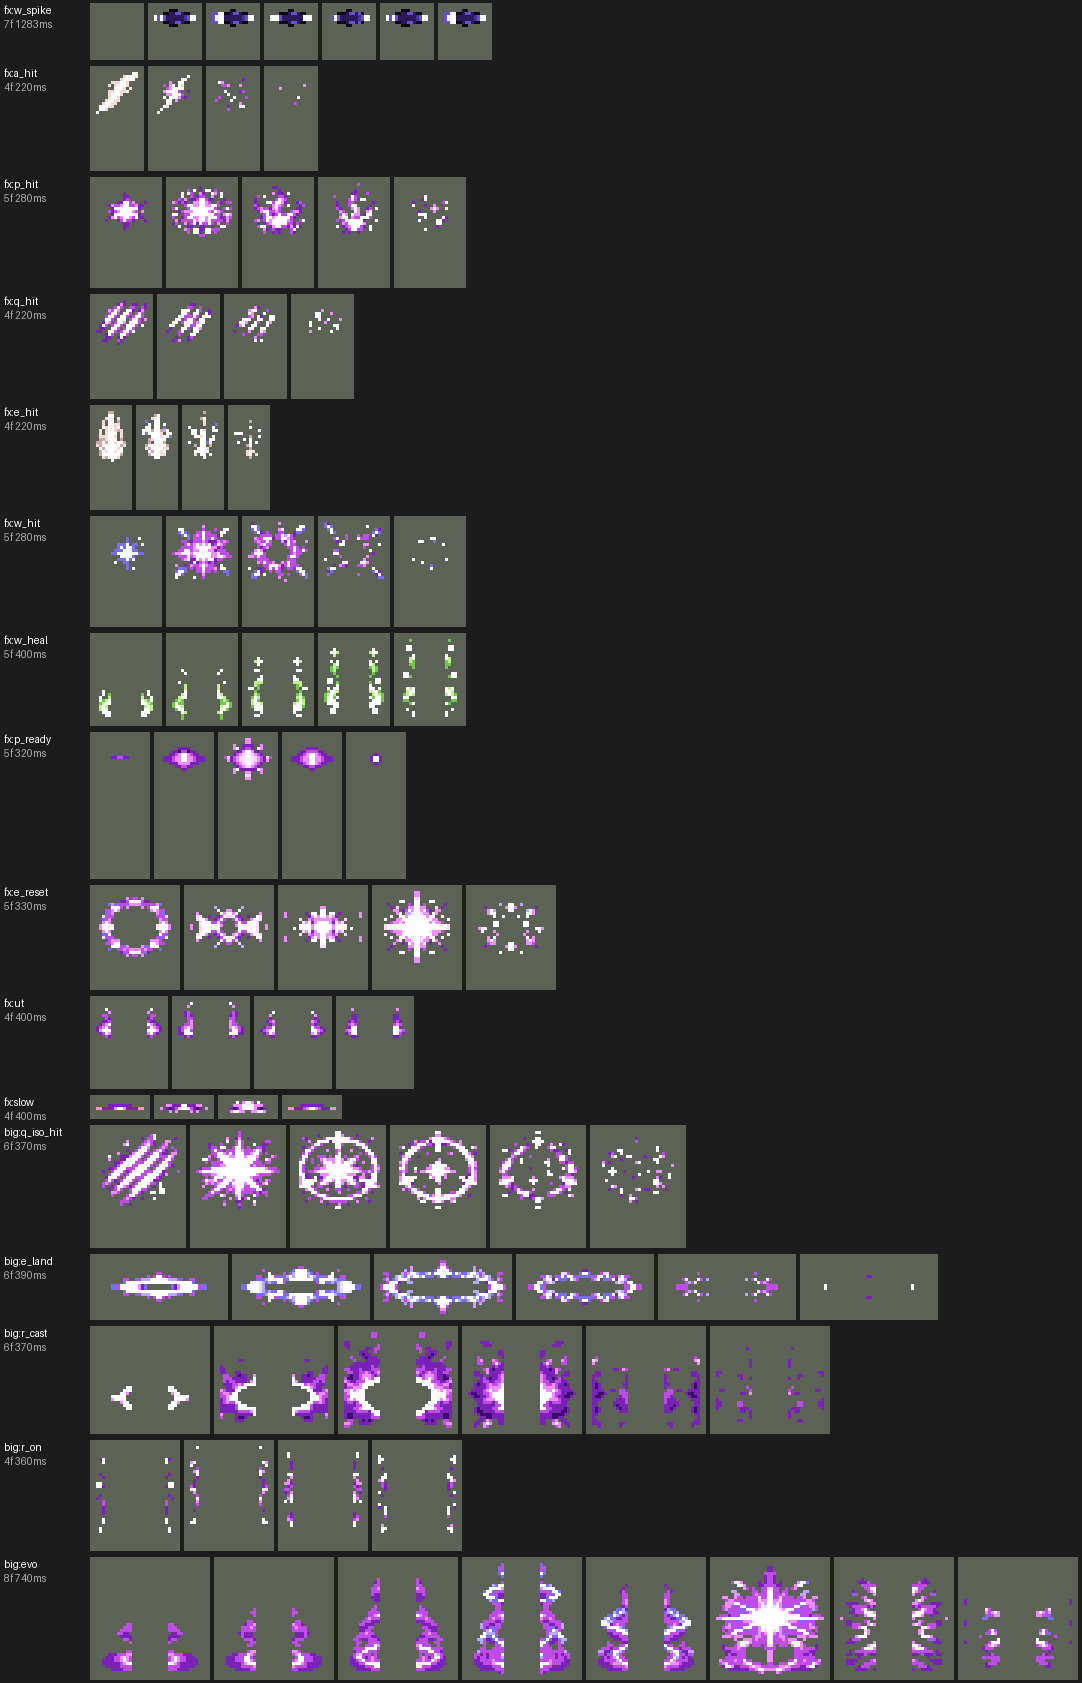
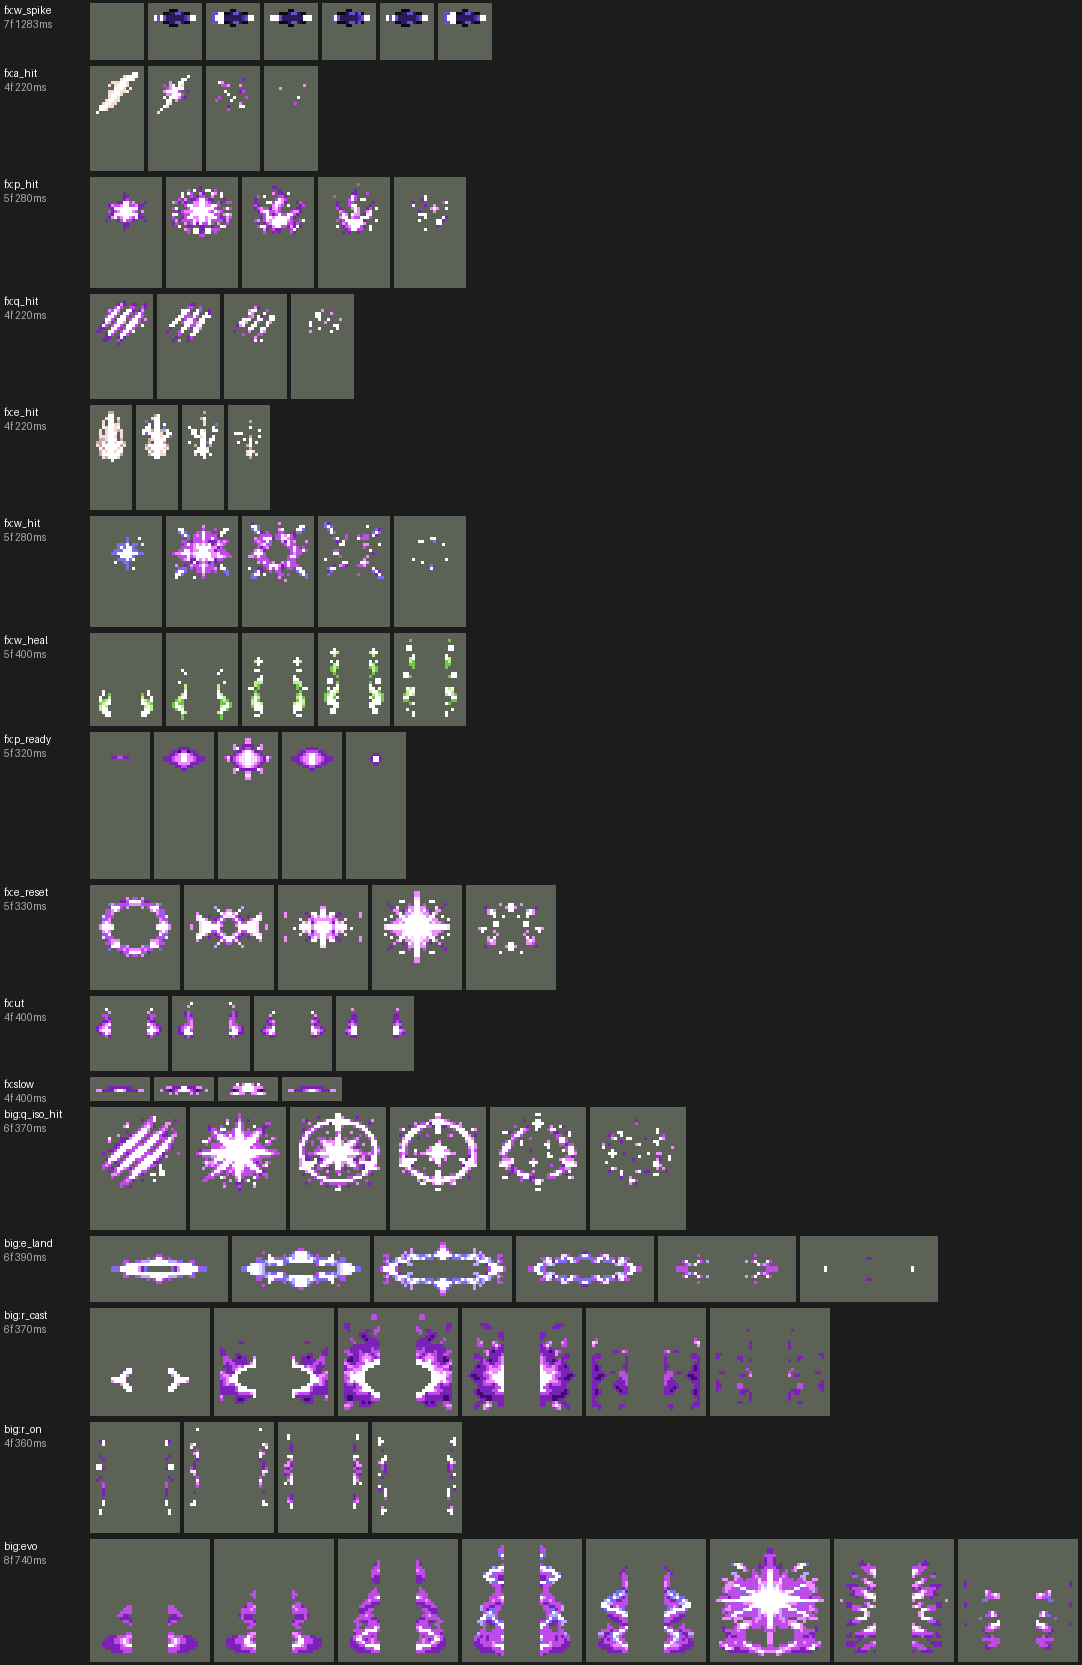
Kha'Zix: the Unseen Threat flames at his waist (-4), not on his chest (-10) where they covered the face plate in the game (「螳螂这个特效挡住脸部了」)

diff --git a/tools/art/import_khazix.py b/tools/art/import_khazix.py
@@ -48,7 +48,9 @@ SHEETS = {
 # side) - the user: 「查一下红色蓝色方技能有没有歪的问题」.
 # His own spots moved with the shrink (fix_khazix_strips.SHRINK: 45 rows -> 37; before CHEST -14, OVER -34, BODY -11).
 HIT = (0, -12)                  # a hit on the upper body of a 36-44 px unit
-CHEST = (0, -10)                # his chest (the pack's ut: two flames either side of it)
+# the pack's ut, two flames either side of him, at his waist: on the chest (-10) they covered the face plate in the
+# game (the user: 「螳螂这个特效挡住脸部了」)
+CHEST = (0, -4)
 OVER = (0, -27)                 # over his head (the face plate's top is 17 over the pivot, the antenna tips 26)
 BODY = (0, -7)                  # the middle of his body
 SOLES = (0, 11)                 # on the ground under a unit (his feet, or a point's)

diff --git a/README.md b/README.md
@@ -123,7 +123,7 @@
 ![派克演示：他跑进场，鱼叉砍德莱厄斯；Q 透骨尖钉蓄力：举起的叉刃上聚起幽绿的光，鱼叉扔向身后的盖伦，钩中后把他拉回来，鱼叉收回，盖伦脚下减速；W 幽潭潜行：脚下炸开一圈幽水，E 魅影浪洄：他俯冲穿过德莱厄斯，起点留下一滩水，魅影从水里冲回他身边，晕住德莱厄斯；他转身朝左（红色方的样子）近身戳刺德莱厄斯（Q 秒放，减速）；R 涌泉之恨：德莱厄斯脚下亮起血红的 X，斩下来水刺冲起，德莱厄斯被处决，派克闪到他身上，金币和血红光环炸开（赏金）；最后没人打他时幽水回复灰血](docs/preview/league_pyke_showcase.gif?v=1006pk)
 
 ![格温演示：她跑进场，剪了德莱厄斯四下，头顶一个个亮起 Q 层数的小记号；Q 快刀剪乱：身前一个接一个闪过青白色的 X 剪痕，最后一大剪，正中央的白光爆开（真实伤害）；E 断续疾走：拖着丝线跳过德莱厄斯，落到盖伦身后剪他一下，脚下升起一大片圣霭，她身上罩着雾、绕着丝线；她转身朝左（红色方的样子）剪盖伦，R 引针簇射：1 根、3 根、5 根针三波沿直线飞过两人，中间穿插普攻，中针的人脚踝缠上丝线减速，德莱厄斯倒下](docs/preview/league_gwen_showcase.gif?v=1007gw)
-![卡兹克演示：他跑进场，胸前亮着无形威胁的洋红火光，第一爪打出被动、德莱厄斯被减速；Q 品尝恐惧：德莱厄斯身边没有队友，孤立无援的重击；E 跃击跳到身后的盖伦身上，落地的冲击波，接 W 虚空突刺甩出尖刺打中盖伦、减速、自己回血；他转身朝左（红色方的样子）跑回德莱厄斯，再一记孤立的 Q；R 虚空来袭：虚空爆发后隐身（画成半透明），出来一爪带被动，德莱厄斯倒下，E 刷新；最后一次进化](docs/preview/league_khazix_showcase.gif?v=1007kz)
+![卡兹克演示：他跑进场，腰间亮着无形威胁的洋红火光，第一爪打出被动、德莱厄斯被减速；Q 品尝恐惧：德莱厄斯身边没有队友，孤立无援的重击；E 跃击跳到身后的盖伦身上，落地的冲击波，接 W 虚空突刺甩出尖刺打中盖伦、减速、自己回血；他转身朝左（红色方的样子）跑回德莱厄斯，再一记孤立的 Q；R 虚空来袭：虚空爆发后隐身（画成半透明），出来一爪带被动，德莱厄斯倒下，E 刷新；最后一次进化](docs/preview/league_khazix_showcase.gif?v=1007kz)
 
 ![布兰德演示：他走进场，朝德莱厄斯扔两个火球；W 烈焰之柱：德莱厄斯脚下亮起一圈火纹，火柱冲天而起，他身上烧起来、头顶亮起一个火苗；E 烈火燃烧：火从德莱厄斯脚下往外烧成一圈，蔓延到后面的盖伦，头顶两个火苗；Q 火焰烙印：火球打中德莱厄斯，他被晕住，头顶三个火苗、脚下的火焰圈开始倒计时，两秒后轰地炸开，盖伦也被炸到；布兰德绕到他们右边转身朝左（红色方的样子）放 R 烈焰风暴：身边卷起火焰，火种打中盖伦，在两人之间弹了五次，每次从上面砸下来，脚下烧起余烬（减速），德莱厄斯倒下](docs/preview/league_brand_showcase.gif?v=1007bd2)
 
@@ -2792,7 +2792,7 @@ python tools/art/preview_gwen.py
 | 部分 | 内容 |
 |---|---|
 | 定位 | 打野（刺客，分类 Assassin），用户排的第十四组的打野（同组：上单格温、中单泽拉斯已做，ADC 图奇、辅助萨勒芬妮以后做），第 67 位英雄。虚空掠夺者 卡兹克：扑向落单的猎物，爪击孤立无援的目标伤害更高，跳上去补一根虚空尖刺，隐身后再出手；5/8/11 级依次进化爪子、虫翼、隐身。四个选择都按推荐的来（用户选的）：技能位「Q / E→W 连招」，孤立判定「目标身边没有它的友军」，进化「按等级三次 Q→E→R」，R「可再次使用 + 脱战就绪」；另外「加入高手的连招」。数据读不到视野和等级，用户：「数据读不到就用rust 改写源码」——主包用下面的近似办法，自己完整能玩；真视野和直接读等级在原生附加包里 |
-| 普攻 / 被动 | 利爪近战，射程 23000，攻击间隔 50 tick，第 11 tick 抓中。被动「无形威胁」：R 隐身时、每条命开始时、约 4 秒没出手后（伊芙琳脱战的做法）就绪，胸前两团洋红火光；下一次攻击英雄附加 15 魔法 + 25% 攻击力的伤害并减速 25% 2 秒 |
+| 普攻 / 被动 | 利爪近战，射程 23000，攻击间隔 50 tick，第 11 tick 抓中。被动「无形威胁」：R 隐身时、每条命开始时、约 4 秒没出手后（伊芙琳脱战的做法）就绪，腰间两团洋红火光（原来在胸前，游戏里挡住了面甲，用户：「螳螂这个特效挡住脸部了」）；下一次攻击英雄附加 15 魔法 + 25% 攻击力的伤害并减速 25% 2 秒 |
 | 技能1 | Q「品尝恐惧」：冷却 240 tick（4 秒），射程 26000，也对小兵和野怪放。第 1 tick 一颗看不见的弹落在目标脚下，在那里半径 30000 数目标那边的单位（英雄、小兵、野怪都算，目标自己是第一个）；第 12 tick 爪中：有第二个单位就是 30 + 70% 攻击力，没有就是孤立无援，45 + 125% 攻击力，画面换成更重的一击。进化收割利爪（5 级）：攻击距离 +6000，打孤立目标返还 45% 冷却 |
 | 技能2 | E「跃击」→ W「虚空突刺」：冷却 720 tick（12 秒），只对敌方英雄放。60000 内有英雄就跳到目标身上（进化虫翼后 80000），远了就朝他跳一段；第 14 tick 落地，半径 22000 内 25 + 35% 攻击力；落地 6 tick 后朝目标甩出尖刺：30 + 50% 攻击力，减速 40% 2 秒，他站在爆炸半径 30000 里就回复 30 + 15% 攻击力的生命。进化虫翼（8 级）：参与击杀英雄后 E 刷新（金克丝的击杀检测） |
 | 大招 | R「虚空来袭」：冷却 3000 tick（50 秒），射程 70000。隐身 1.25 秒、移速 +40%，被动就绪；第一次放完 2 秒后能再放一次，第二次放完才进完整冷却。进化动态遮蔽（11 级）：隐身 2 秒，共 3 次。隐身只让远处的敌人看不见、选不中，贴身的照样能打他（游戏的规则） |
